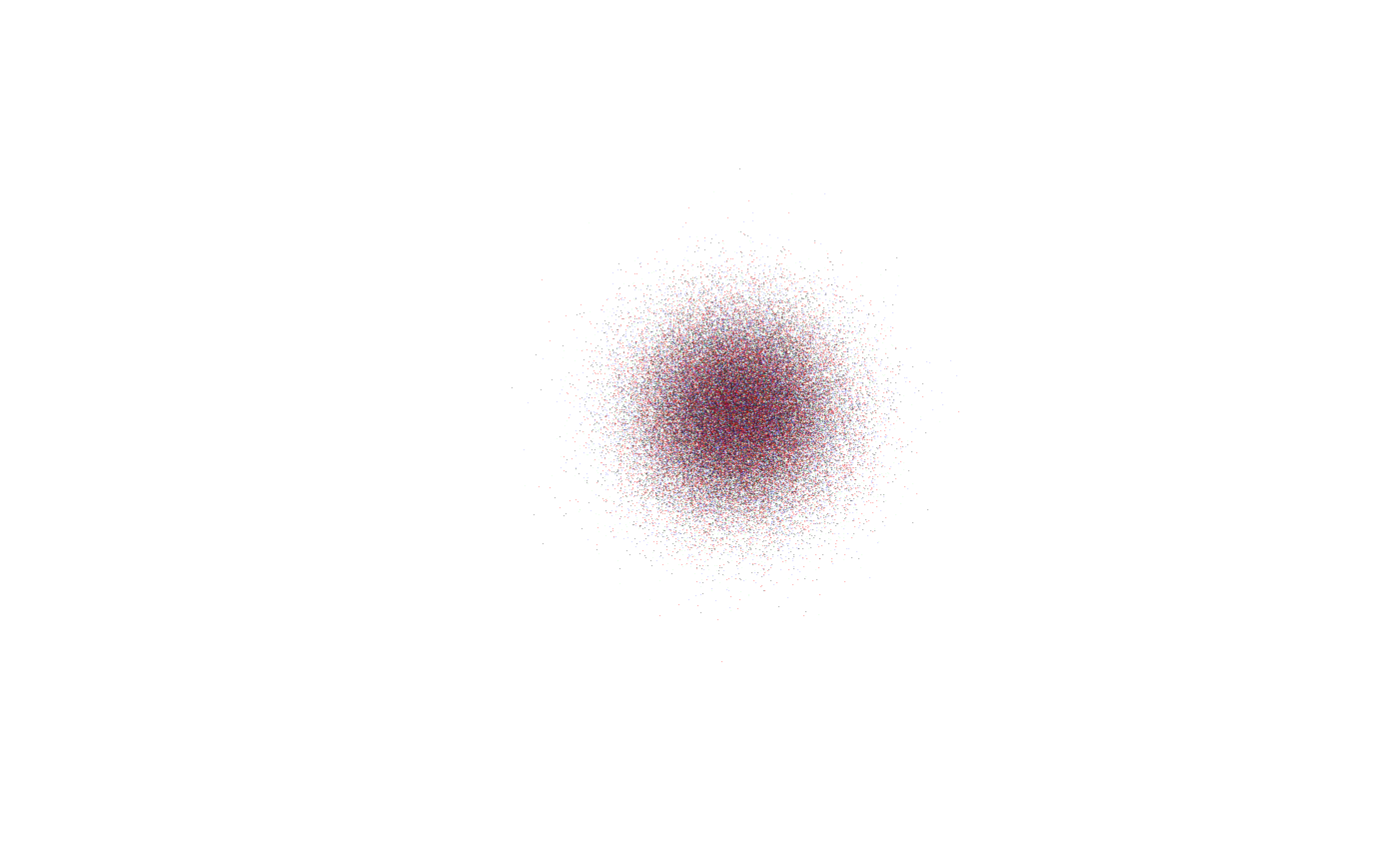
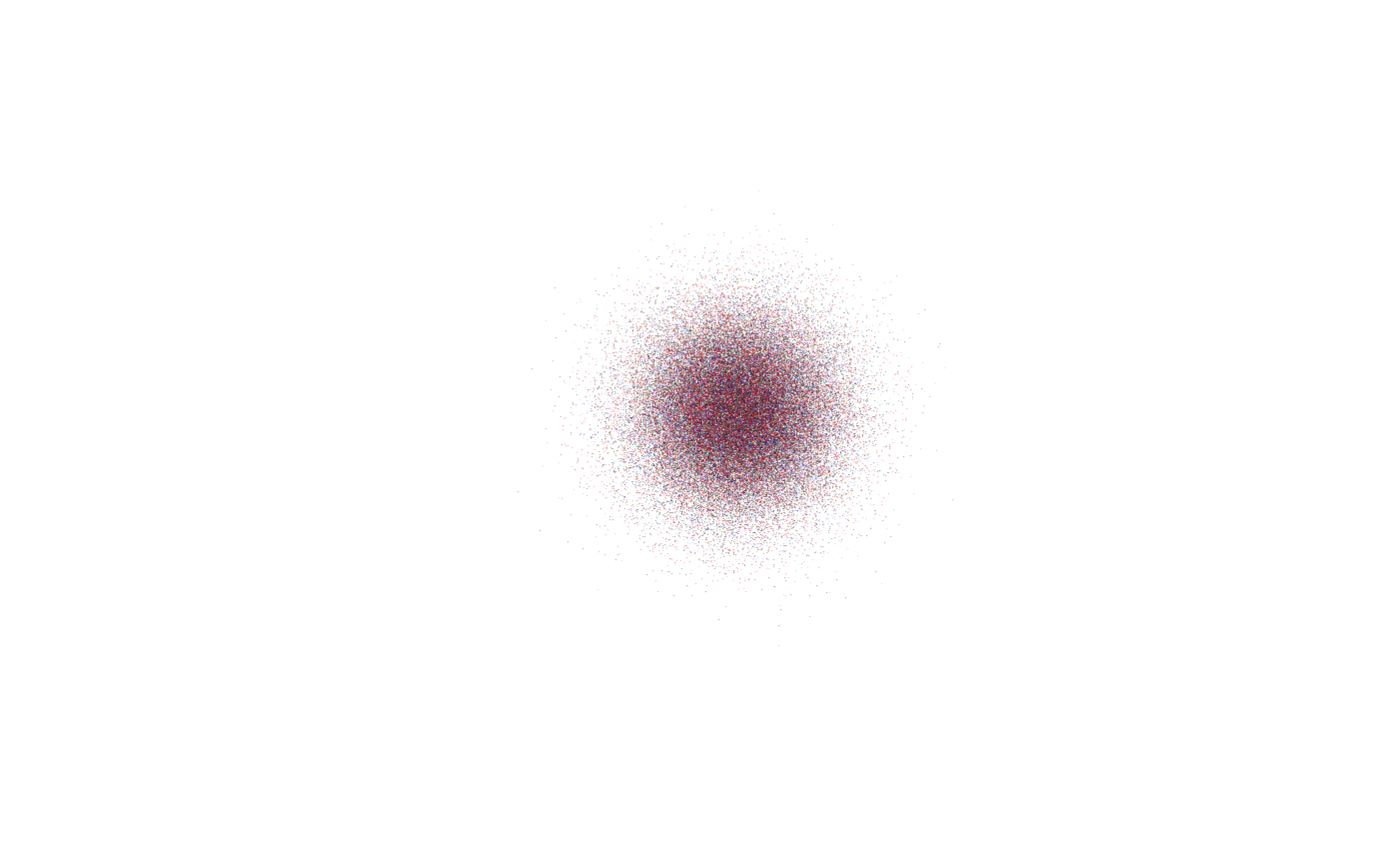
Built site for scattermore2: 0.0.0.9000@6bb5750

Changed region(s): [[0.3993, 0.3121, 0.645, 0.6555]]

diff --git a/index.html b/index.html
@@ -13,7 +13,8 @@
 <!-- clipboard.js --><script src="https://cdnjs.cloudflare.com/ajax/libs/clipboard.js/2.0.6/clipboard.min.js" integrity="sha256-inc5kl9MA1hkeYUt+EC3BhlIgyp/2jDIyBLS6k3UxPI=" crossorigin="anonymous"></script><!-- headroom.js --><script src="https://cdnjs.cloudflare.com/ajax/libs/headroom/0.11.0/headroom.min.js" integrity="sha256-AsUX4SJE1+yuDu5+mAVzJbuYNPHj/WroHuZ8Ir/CkE0=" crossorigin="anonymous"></script><script src="https://cdnjs.cloudflare.com/ajax/libs/headroom/0.11.0/jQuery.headroom.min.js" integrity="sha256-ZX/yNShbjqsohH1k95liqY9Gd8uOiE1S4vZc+9KQ1K4=" crossorigin="anonymous"></script><!-- pkgdown --><link href="pkgdown.css" rel="stylesheet">
 <script src="pkgdown.js"></script><meta property="og:title" content="Scatterplots with More Points">
 <meta property="og:description" content="C-based conversion of large scatterplot data to rasters plus other 
-             operations. Speeds up plotting of data with millions of points.">
+             operations such as data blurring or data alpha blending. Speeds up 
+             plotting of data with millions of points.">
 <!-- mathjax --><script src="https://cdnjs.cloudflare.com/ajax/libs/mathjax/2.7.5/MathJax.js" integrity="sha256-nvJJv9wWKEm88qvoQl9ekL2J+k/RWIsaSScxxlsrv8k=" crossorigin="anonymous"></script><script src="https://cdnjs.cloudflare.com/ajax/libs/mathjax/2.7.5/config/TeX-AMS-MML_HTMLorMML.js" integrity="sha256-84DKXVJXs0/F8OTMzX4UR909+jtl4G7SPypPavF+GfA=" crossorigin="anonymous"></script><!--[if lt IE 9]>
 <script src="https://oss.maxcdn.com/html5shiv/3.7.3/html5shiv.min.js"></script>
 <script src="https://oss.maxcdn.com/respond/1.4.2/respond.min.js"></script>
